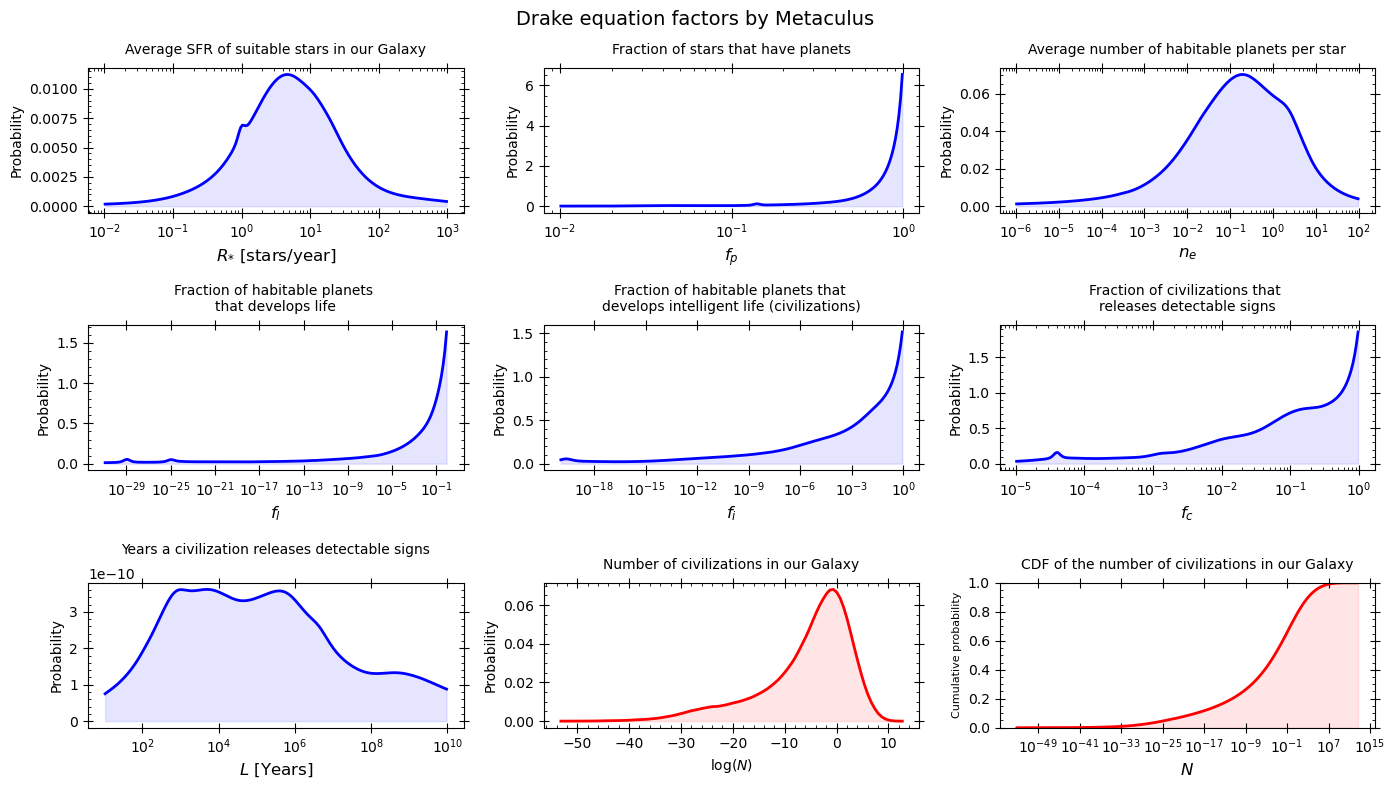
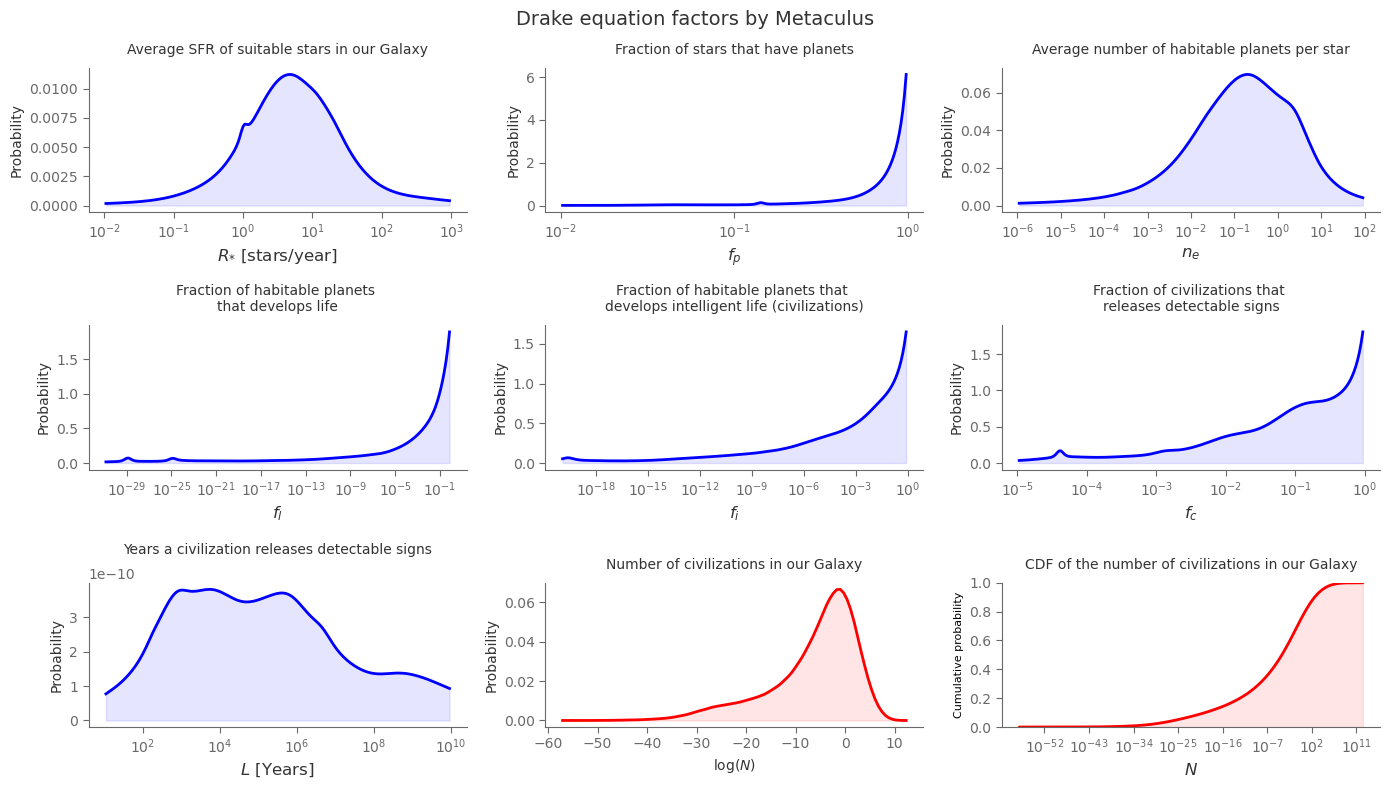
Mudanças estéticas e mais
Melhora na aparência dos gráficos e atualização do parsing pela mudança no formato dos arquivos pelo Metaculus.

diff --git a/Drake_Metaculus.py b/Drake_Metaculus.py
@@ -1,7 +1,7 @@
 import numpy as np
 import pandas as pd
 import matplotlib.pyplot as plt
-from scipy.integrate import simps
+from scipy.integrate import simpson
 from scipy import interpolate as inter
 from scipy.stats import gaussian_kde
 from statsmodels.distributions.empirical_distribution import ECDF
@@ -31,16 +31,24 @@ def cdf_setter(url, xmin, xmax, q = 1000):
      df_f = pd.read_csv(url)
 
      # reducing data to just the PDF distribution
-     df_pdf = df_f.iloc[-2, 11:211].reset_index(drop = False)
+     df_pdf = df_f.iloc[-1, 11:210].reset_index(drop = False)
      df_pdf.columns = ['x_norm', 'PDF']
-     df_pdf["x_norm"].replace(to_replace = "pdf_at_", value = "", regex = True, inplace = True)
+
+     df_pdf["x_norm"] = df_pdf["x_norm"].replace(to_replace = "pdf_at_", value = "", regex = True)
+     df_pdf["x_norm"] = df_pdf["x_norm"].replace(to_replace = "pdf_below_", value = "", regex = True)
+     df_pdf["x_norm"] = df_pdf["x_norm"].replace(to_replace = "or_below_", value = "", regex = True)
+     
      df_pdf["x_norm"] = df_pdf["x_norm"].astype("float")
      df_pdf["PDF"] = df_pdf["PDF"].astype("float")
 
      # reducing data to just the CDF distribution
-     df_cdf = df_f.iloc[-2, 211:412].reset_index(drop = False)
+     df_cdf = df_f.iloc[-1, 211:411].reset_index(drop = False)
      df_cdf.columns = ['x_norm', 'CDF']
-     df_cdf["x_norm"].replace(to_replace = "cdf_at_", value = "", regex = True, inplace = True)
+
+     df_cdf["x_norm"] = df_cdf["x_norm"].replace(to_replace = "cdf_at_", value = "", regex = True)
+     df_cdf["x_norm"] = df_cdf["x_norm"].replace(to_replace = "cdf_below_", value = "", regex = True)
+     df_cdf["x_norm"] = df_cdf["x_norm"].replace(to_replace = "or_below_", value = "", regex = True)
+     
      df_cdf["x_norm"] = pd.to_numeric(df_cdf["x_norm"], errors = 'coerce')
      df_cdf["CDF"] = df_cdf["CDF"].astype("float")
 
@@ -55,11 +63,12 @@ def cdf_setter(url, xmin, xmax, q = 1000):
      # Transforming x range from 0-1 to the real xmin-xmax
      xmin_log = np.log10(xmin)
      xmax_log = np.log10(xmax)
+
      df_cdf["x_log"] = pd.DataFrame(df_cdf["x_norm"]).apply(lambda x : (xmin_log + x * (xmax_log - xmin_log)))
      df_pdf["x_log"] = pd.DataFrame(df_pdf["x_norm"]).apply(lambda x : 10**(xmin_log + x * (xmax_log - xmin_log)))
 
      # Calculating the area under the curve
-     total_area = simps(df_pdf["PDF"], df_pdf["x_log"])
+     total_area = simpson(y = df_pdf["PDF"], x = df_pdf["x_log"])
      # Normalizing the PDF values so that the sum equals 1
      df_pdf['PDF'] = df_pdf["PDF"] / total_area
      #df_pdf['PDF'] = df_pdf["PDF"] / df_pdf["PDF"].sum()
@@ -84,17 +93,17 @@ print("Reading and reducing data...")
 quantity = 10**6 # quantity of data in the simulation
 
 df_Rs_cdf, df_Rs_pdf = cdf_setter(url = url_Rs, xmin = 0.01, xmax = 1000, q = quantity)
-print("Rs done.")
+print("R_s done.")
 df_fp_cdf, df_fp_pdf = cdf_setter(url = url_fp, xmin = 0.01, xmax = 1, q = quantity)
-print("fp done.")
+print("f_p done.")
 df_ne_cdf, df_ne_pdf = cdf_setter(url = url_ne, xmin = 10**-6, xmax = 100, q = quantity)
-print("ne done.")
+print("n_e done.")
 df_fl_cdf, df_fl_pdf = cdf_setter(url = url_fl, xmin = 10**-31, xmax = 1, q = quantity)
-print("fl done.")
+print("f_l done.")
 df_fi_cdf, df_fi_pdf = cdf_setter(url = url_fi, xmin = 10**-20, xmax = 1, q = quantity)
-print("fi done.")
+print("f_i done.")
 df_fc_cdf, df_fc_pdf = cdf_setter(url = url_fc, xmin = 10**-5, xmax = 1, q = quantity)
-print("fc done.")
+print("f_c done.")
 df_L_cdf, df_L_pdf = cdf_setter(url = url_L, xmin = 10, xmax = 10**10, q = quantity)
 print("L done.")
 
@@ -120,6 +129,8 @@ print("Making the histograms...")
 
 # Number of bins for the histograms
 nbins = 1000
+# Custom dark gray color between dimgray and black
+custom_dark_gray = (0.2, 0.2, 0.2)
 #---------------------------------------
 # Function to make the histograms sub figures
 def histogram(ax, df_f, color, edgecolor, label, xlabel, title, q, nbins):
@@ -139,19 +150,23 @@ def histogram(ax, df_f, color, edgecolor, label, xlabel, title, q, nbins):
              label = label)
 
      # Design
-     ax.set_xlabel(xlabel, fontsize = 12)
-     ax.set_ylabel("Frequency", fontsize = 10)
-     ax.set_title(title, fontsize = 10, pad = 10)
+     ax.set_xlabel(xlabel, fontsize = 12, color = custom_dark_gray)
+     ax.set_ylabel("Frequency", fontsize = 10, color = custom_dark_gray)
+     ax.set_title(title, fontsize = 10, pad = 10, color = custom_dark_gray)
      #ax.grid(True, linestyle = ":", linewidth = "1")
 
      # Axes
      ax.set_xscale("log")
 
      ax.minorticks_on()
-     ax.tick_params(which = "major", direction = "inout", length = 7)
-     ax.tick_params(which = "minor", direction = "in", length = 2)
-     ax.tick_params(which = "both", bottom = True, top = True, left = True, right = True)
+     ax.tick_params(which = "major", direction = "out", length = 4, colors = 'dimgray')
+     ax.tick_params(which = "minor", direction = "in", length = 0)
+     ax.tick_params(which = "both", bottom = True, top = False, left = True, right = False)
      ax.tick_params(labelbottom = True, labeltop = False, labelleft = True, labelright = False)
+     ax.spines['right'].set_visible(False)
+     ax.spines['top'].set_visible(False)
+     ax.spines['left'].set_color('dimgray')
+     ax.spines['bottom'].set_color('dimgray')
 
 #-------------------------------------------------------------------------------
 # Creating a figure object with size 14x8 inches and 9 subfigs
@@ -177,7 +192,7 @@ LaTeX = f"$10^{{{power}}}$"
 # All the text for the subtitle
 text = "Frequencies given by Metaculus' CDFs, n = " + LaTeX
 # A figure subtitle
-fig1.suptitle(text, fontsize = 14)
+fig1.suptitle(text, fontsize = 14, color = custom_dark_gray)
 #------------------------------------------------------------------------------
 # Rs
 histogram(ax = ax1, 
@@ -277,19 +292,23 @@ ax9.hist(Ns,
          label = "Histo N cumulative")
 
 # Design
-ax9.set_xlabel("$N$", fontsize = 12)
-ax9.set_ylabel("Cumulative frequency", fontsize = 10)
-ax9.set_title("CDF of the number of civilizations in our Galaxy", fontsize = 10, pad = 10)
+ax9.set_xlabel("$N$", fontsize = 12, color = custom_dark_gray)
+ax9.set_ylabel("Cumulative frequency", fontsize = 10, color = custom_dark_gray)
+ax9.set_title("CDF of the number of civilizations in our Galaxy", fontsize = 10, pad = 10, color = custom_dark_gray)
 #ax9.grid(True, linestyle = ":", linewidth = "1")
 
 # Axes
 ax9.set_xscale("log")
 
 ax9.minorticks_on()
-ax9.tick_params(which = "major", direction = "inout", length = 7)
-ax9.tick_params(which = "minor", direction = "in", length = 2)
-ax9.tick_params(which = "both", bottom = True, top = True, left = True, right = True)
+ax9.tick_params(which = "major", direction = "out", length = 4, colors = 'dimgray')
+ax9.tick_params(which = "minor", direction = "in", length = 0)
+ax9.tick_params(which = "both", bottom = True, top = False, left = True, right = False)
 ax9.tick_params(labelbottom = True, labeltop = False, labelleft = True, labelright = False)
+ax9.spines['right'].set_visible(False)
+ax9.spines['top'].set_visible(False)
+ax9.spines['left'].set_color('dimgray')
+ax9.spines['bottom'].set_color('dimgray')
 
 ecdft = ECDF(Ns)
 ax9.fill_between(log_space_bins, ecdft(log_space_bins), color = "red", alpha = 0.1)
@@ -307,29 +326,32 @@ print("Making the plots...")
 #---------------------------------------
 # Function to make the plot sub figures
 def plot(ax, df_f, color, label, xlabel, title):
+     ax.plot(df_f['x_log'],
+             df_f['PDF'],
+             color = color,
+             linewidth = 2,
+             label = label)
 
-    ax.plot(df_f['x_log'], 
-            df_f['PDF'], 
-            color = color, 
-            linewidth = 2, 
-            label = label)
+     # Design
+     ax.set_xlabel(xlabel, fontsize = 12, color = custom_dark_gray)
+     ax.set_ylabel("Probability", fontsize = 10, color = custom_dark_gray)
+     ax.set_title(title, fontsize = 10, pad = 10, color = custom_dark_gray)
+     #ax.grid(True, linestyle = ":", linewidth = "1")
 
-    # Design
-    ax.set_xlabel(xlabel, fontsize = 12)
-    ax.set_ylabel("Probability", fontsize = 10)
-    ax.set_title(title, fontsize = 10, pad = 10)
-    #ax.grid(True, linestyle = ":", linewidth = "1")
+     # Axes
+     ax.set_xscale("log")
 
-    # Axes
-    ax.set_xscale("log")
+     ax.minorticks_on()
+     ax.tick_params(which = "major", direction = "out", length = 4, colors = 'dimgray')
+     ax.tick_params(which = "minor", direction = "in", length = 0)
+     ax.tick_params(which = "both", bottom = True, top = False, left = True, right = False)
+     ax.tick_params(labelbottom = True, labeltop = False, labelleft = True, labelright = False)
+     ax.spines['right'].set_visible(False)
+     ax.spines['top'].set_visible(False)
+     ax.spines['left'].set_color('dimgray')
+     ax.spines['bottom'].set_color('dimgray')
 
-    ax.minorticks_on()
-    ax.tick_params(which = "major", direction = "inout", length = 7)
-    ax.tick_params(which = "minor", direction = "in", length = 2)
-    ax.tick_params(which = "both", bottom = True, top = True, left = True, right = True)
-    ax.tick_params(labelbottom = True, labeltop = False, labelleft = True, labelright = False)
-
-    ax.fill_between(df_f['x_log'], df_f['PDF'], color = "blue", alpha = 0.1)
+     ax.fill_between(df_f['x_log'], df_f['PDF'], color = "blue", alpha = 0.1)
 #------------------------------------------------------------------------------
 # Create a figure object with size 14x8 inches and 9 subfigs
 fig2, axes = plt.subplots(nrows = 3,
@@ -341,7 +363,7 @@ ax1, ax2, ax3 = axes[0, 0], axes[0, 1], axes[0, 2]
 ax4, ax5, ax6 = axes[1, 0], axes[1, 1], axes[1, 2]
 ax7, ax8, ax9 = axes[2, 0], axes[2, 1], axes[2, 2]
 
-fig2.suptitle("Drake equation factors by Metaculus", fontsize = 14)
+fig2.suptitle("Drake equation factors by Metaculus", fontsize = 14, color = custom_dark_gray)
 #------------------------------------------------------------------------------
 # Rs
 plot(ax = ax1, 
@@ -402,7 +424,7 @@ N_density = gaussian_kde(log_data)
 x = np.linspace(min(log_data), max(log_data), 100)
 
 # This integral should be ~1
-print("The next integral should be ~1 \nIntegral =", simps(N_density(x), x))
+print("The next integral should be ~1 \nIntegral =", simpson(y = N_density(x), x = x))
 
 #---------------------------------------
 ax8.plot(x, N_density(x), 
@@ -411,18 +433,22 @@ ax8.plot(x, N_density(x),
          label = "Plot N")
 
 # Design
-ax8.set_xlabel("log($N$)", fontsize = 10)
-ax8.set_ylabel("Probability", fontsize = 10)
-ax8.set_title("Number of civilizations in our Galaxy", fontsize = 10, pad = 10)
+ax8.set_xlabel("log($N$)", fontsize = 10, color = custom_dark_gray)
+ax8.set_ylabel("Probability", fontsize = 10, color = custom_dark_gray)
+ax8.set_title("Number of civilizations in our Galaxy", fontsize = 10, pad = 10, color = custom_dark_gray)
 #ax8.grid(True, linestyle = ":", linewidth = "1")
 
 # Axes
 #ax8.set_xscale("log")
 ax8.minorticks_on()
-ax8.tick_params(which = "major", direction = "inout", length = 7)
-ax8.tick_params(which = "minor", direction = "in", length = 2)
-ax8.tick_params(which = "both", bottom = True, top = True, left = True, right = True)
+ax8.tick_params(which = "major", direction = "out", length = 4, colors = 'dimgray')
+ax8.tick_params(which = "minor", direction = "in", length = 0)
+ax8.tick_params(which = "both", bottom = True, top = False, left = True, right = False)
 ax8.tick_params(labelbottom = True, labeltop = False, labelleft = True, labelright = False)
+ax8.spines['right'].set_visible(False)
+ax8.spines['top'].set_visible(False)
+ax8.spines['left'].set_color('dimgray')
+ax8.spines['bottom'].set_color('dimgray')
 
 ax8.fill_between(x, N_density(x), color = "red", alpha = 0.1)
 
@@ -438,19 +464,23 @@ ax9.ecdf(Ns,
          label = "Plot N ecdf")
 
 # Design
-ax9.set_xlabel("$N$", fontsize = 12)
+ax9.set_xlabel("$N$", fontsize = 12, color = custom_dark_gray)
 ax9.set_ylabel("Cumulative probability", fontsize = 8)
-ax9.set_title("CDF of the number of civilizations in our Galaxy", fontsize = 10, pad = 10)
+ax9.set_title("CDF of the number of civilizations in our Galaxy", fontsize = 10, pad = 10, color = custom_dark_gray)
 #ax9.grid(True, linestyle = ":", linewidth = "1")
 
 # Axes
 ax9.set_xscale("log")
 
 ax9.minorticks_on()
-ax9.tick_params(which = "major", direction = "inout", length = 7)
-ax9.tick_params(which = "minor", direction = "in", length = 2)
-ax9.tick_params(which = "both", bottom = True, top = True, left = True, right = True)
+ax9.tick_params(which = "major", direction = "out", length = 4, colors = 'dimgray')
+ax9.tick_params(which = "minor", direction = "in", length = 0)
+ax9.tick_params(which = "both", bottom = True, top = False, left = True, right = False)
 ax9.tick_params(labelbottom = True, labeltop = False, labelleft = True, labelright = False)
+ax9.spines['right'].set_visible(False)
+ax9.spines['top'].set_visible(False)
+ax9.spines['left'].set_color('dimgray')
+ax9.spines['bottom'].set_color('dimgray')
 
 ax9.fill_between(log_space_bins, ecdft(log_space_bins), color = "red", alpha = 0.1)
 
@@ -501,19 +531,23 @@ ax1.plot(log_space_bins_edges[1:], N_interpolated,
          zorder = 5)
 
 # Design
-ax1.set_xlabel("$N$", fontsize = 12)
-ax1.set_ylabel("Frequency of $N$", fontsize = 10)
-ax1.set_title("Number of civilizations in our Galaxy", fontsize = 12, pad = 10)
+ax1.set_xlabel("$N$", fontsize = 12, color = custom_dark_gray)
+ax1.set_ylabel("Frequency of $N$", fontsize = 10, color = custom_dark_gray)
+ax1.set_title("Number of civilizations in our Galaxy", fontsize = 12, pad = 10, color = custom_dark_gray)
 #ax1.grid(True, linestyle = ":", linewidth = "1")
 
 # Axes
 ax1.set_xscale("log")
 
 ax1.minorticks_on()
-ax1.tick_params(which = "major", direction = "inout", length = 7)
-ax1.tick_params(which = "minor", direction = "in", length = 2)
-ax1.tick_params(which = "both", bottom = True, top = True, left = True, right = True)
+ax1.tick_params(which = "major", direction = "out", length = 4, colors = 'dimgray')
+ax1.tick_params(which = "minor", direction = "in", length = 0)
+ax1.tick_params(which = "both", bottom = True, top = False, left = True, right = False)
 ax1.tick_params(labelbottom = True, labeltop = False, labelleft = True, labelright = False)
+ax1.spines['right'].set_visible(False)
+ax1.spines['top'].set_visible(False)
+ax1.spines['left'].set_color('dimgray')
+ax1.spines['bottom'].set_color('dimgray')
 
 # Color filling
 ax1.fill_between(log_space_bins_midpoints, N_interpolated, color = "red", alpha = 0.1)
@@ -535,7 +569,7 @@ ax1.fill_between(points,
 probability_not_alone_MW = (ecdft(10**12) - ecdft(1))*100
 formatted_probability = f"{probability_not_alone_MW:.0f}%"
 text = "Probability of\n NOT being\n  alone in the\n   Milky Way\n    galaxy\n    ($N > 1$): " + formatted_probability
-ax1.text(9*10**1, 0.0033, text, fontsize = 8)
+ax1.text(9*10**1, 0.0033, text, fontsize = 8, color = custom_dark_gray)
 ax1.text(10**1, 0.00025, f'{probability_not_alone_MW:.0f}%', fontsize = 12)
 
 #---------------------------------------
@@ -562,7 +596,7 @@ ax1.vlines(x = 1,
 probability_alone_MW = ecdft(1)*100
 formatted_probability = f"{probability_alone_MW:.0f}%"
 text = "Probability of being alone \nin the Milky Way galaxy \n($N < 1$): " + formatted_probability
-ax1.text(10**-29, 0.0025, text, fontsize = 8)
+ax1.text(10**-29, 0.0025, text, fontsize = 8, color = custom_dark_gray)
 ax1.text(10**-8, 0.0008, f'{probability_alone_MW:.0f}%', fontsize = 12)
 
 #---------------------------------------
@@ -589,7 +623,7 @@ ax1.vlines(x = 5*10**-13,
 probability_alone_OU = ecdft(5*10**-13)*100
 formatted_probability = f"{probability_alone_OU:.0f}%"
 text = "Probability of being alone \nin the observable Universe \n($N < 5 \\times 10^{{-13}}$): " + formatted_probability
-ax1.text(10**-47, 0.0005, text, fontsize = 8)
+ax1.text(10**-47, 0.0005, text, fontsize = 8, color = custom_dark_gray)
 ax1.text(10**-20, 0.00025, f'{probability_alone_OU:.0f}%', fontsize = 12)
 
 #------------------------------------------------------------------------------
@@ -603,19 +637,23 @@ ax2.ecdf(Ns,
          zorder = 5)
 
 # Design
-ax2.set_xlabel("$N$", fontsize = 12)
-ax2.set_ylabel("Cumulative probability", fontsize = 10)
-ax2.set_title("CDF of the number of civilizations in our Galaxy", fontsize = 12, pad = 10)
+ax2.set_xlabel("$N$", fontsize = 12, color = custom_dark_gray)
+ax2.set_ylabel("Cumulative probability", fontsize = 10, color = custom_dark_gray)
+ax2.set_title("CDF of the number of civilizations in our Galaxy", fontsize = 12, pad = 10, color = custom_dark_gray)
 #ax2.grid(True, linestyle = ":", linewidth = "1")
 
 # Axes
 ax2.set_xscale("log")
 
 ax2.minorticks_on()
-ax2.tick_params(which = "major", direction = "inout", length = 7)
-ax2.tick_params(which = "minor", direction = "in", length = 2)
-ax2.tick_params(which = "both", bottom = True, top = True, left = True, right = True)
+ax2.tick_params(which = "major", direction = "out", length = 4, colors = 'dimgray')
+ax2.tick_params(which = "minor", direction = "in", length = 0)
+ax2.tick_params(which = "both", bottom = True, top = False, left = True, right = False)
 ax2.tick_params(labelbottom = True, labeltop = False, labelleft = True, labelright = False)
+ax2.spines['right'].set_visible(False)
+ax2.spines['top'].set_visible(False)
+ax2.spines['left'].set_color('dimgray')
+ax2.spines['bottom'].set_color('dimgray')
 
 # Color filling
 ax2.fill_between(log_space_bins, ecdft(log_space_bins), color = "red", alpha = 0.1)
@@ -635,7 +673,7 @@ ax2.vlines(x = 1,
 probability_alone_MW = ecdft(1)*100
 formatted_probability = f"{probability_alone_MW:.0f}%"
 text = "Probability of being alone \nin the Milky Way galaxy: \n($N < 1$): " + formatted_probability
-ax2.text(5*10**-23, 0.7, text, fontsize = 8)
+ax2.text(5*10**-23, 0.7, text, fontsize = 8, color = custom_dark_gray)
 
 #---------------------------------------
 # Alone in the observable Universe line
@@ -652,7 +690,7 @@ ax2.vlines(x = 5*10**-13,
 probability_alone_OU = ecdft(5*10**-13)*100
 formatted_probability = f"{probability_alone_OU:.0f}%"
 text = "Probability of being alone \nin the observable Universe: \n($N < 5 \\times 10^{{-13}}$): " + formatted_probability
-ax2.text(10**-38, 0.15, text, fontsize = 8)
+ax2.text(10**-38, 0.15, text, fontsize = 8, color = custom_dark_gray)
 
 #------------------------------------------------------------------------------
 # Adjusting the vertical and horizontal spacing, so there are no overlapings
